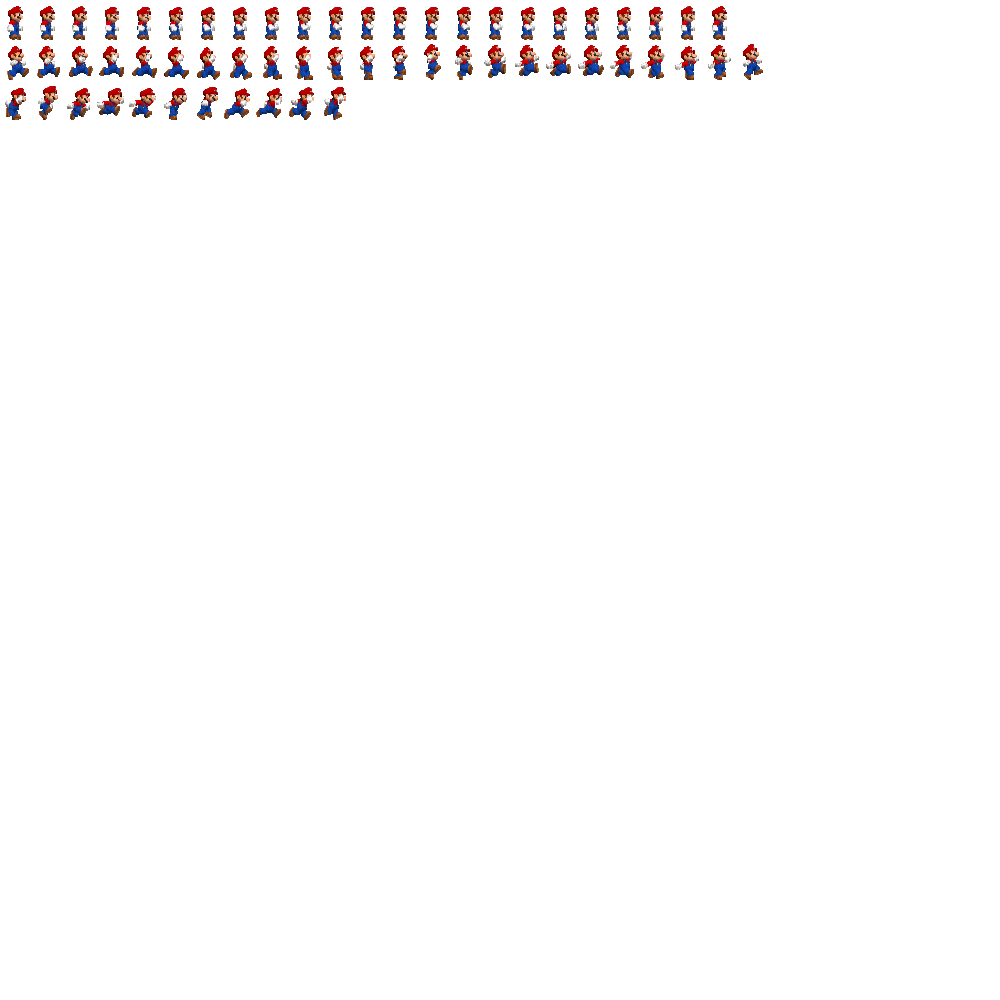
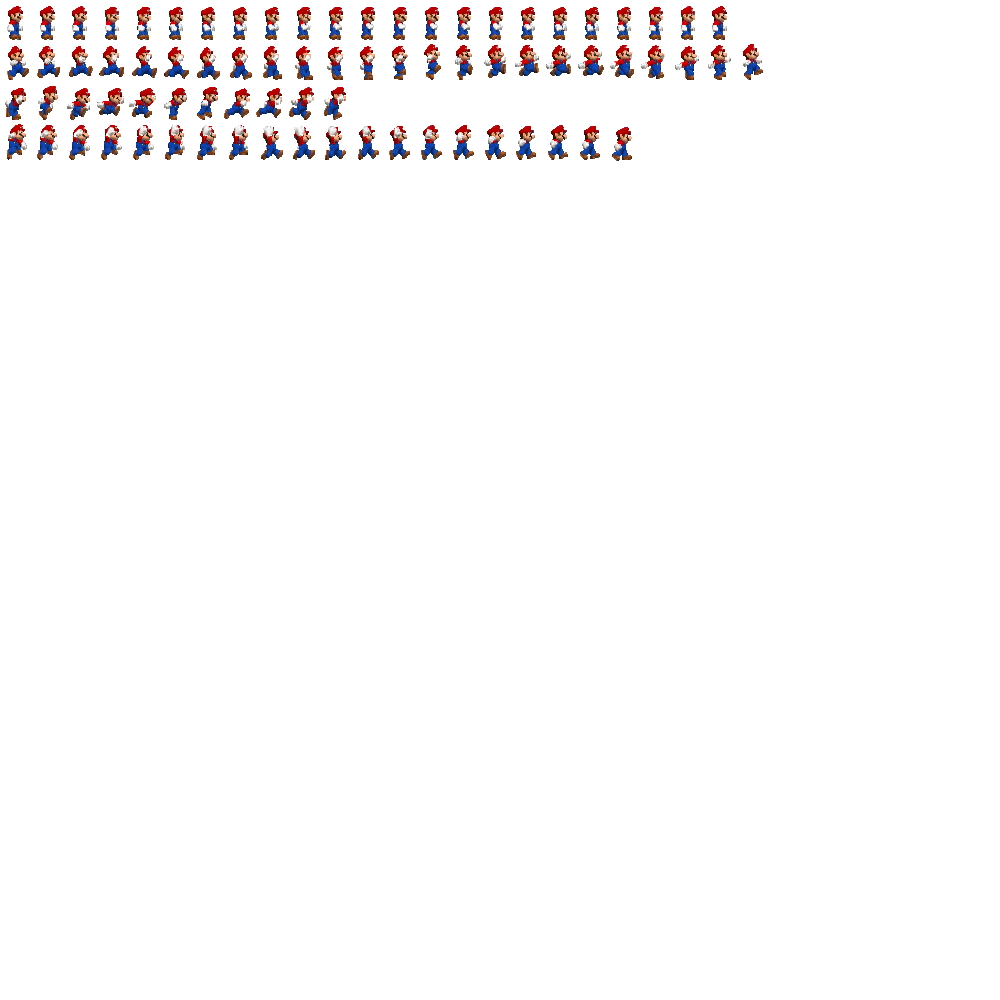
mario sprite 정리

Changed region(s): [[0.0, 0.124, 0.651, 0.155]]

diff --git a/newSuperMario/Main_state.py b/newSuperMario/Main_state.py
@@ -47,8 +47,14 @@ class hero:
         self.y = y
 
     def update(self):
-        if self.dir == -1 or self.dir == 1:
-            fs_deel = 4
+
+        if self.status != 0:
+            fs_deel = 7
+        elif self.dir == -1 or self.dir == 1:
+            if self.xspeed == 3.0:
+                fs_deel = 6
+            else:
+                fs_deel = 4
         elif self.dir == 0:
             fs_deel = 8
 
@@ -57,21 +63,13 @@ class hero:
         if self.framedir == 0:
             if self.fs == fs_deel:
                 self.frame = self.frame + 1
-            if self.status == 1:
-                if self.y - self.py > 70:
-                    if self.y - self.py > 170:
-                        self.frame = 3
-                    elif self.y - self.py > 110:
-                        self.frame = 2
-                    else:
-                        self.frame = 1
-                else:
-                    self.frame = 0
-            elif self.status == -1:
-                if self.y - self.py < 50:
-                    self.frame = 4
+
 
             elif self.dir == -1 or self.dir == 1:  # 나머지 프레임
+                if self.frame > 10 and self.xspeed == 3.0:
+                    self.frame = 0
+                    self.framedir = 0
+
                 if self.frame > 23:
                     self.frame = 0
                     self.framedir = 0
@@ -95,13 +93,13 @@ class hero:
         if self.status != 0: # 점프 등의 특수 상태
            if self.dir == 0:  # 정지
                if self.herodir == 1:
-                   Mario_image.clip_draw(self.frame * 32, 1000 - 3 * 40, 32, 40, self.x, self.y, self.size[0],self.size[1] )
+                   Mario_image.clip_draw(self.frame * 32, 1000 - 4 * 40, 32, 40, self.x, self.y, self.size[0],self.size[1] )
                else:
-                   Mario_image.clip_composite_draw(self.frame * 32, 1000 - 3 * 40, 32, 40, 0, 'h', self.x, self.y, self.size[0],self.size[1])
+                   Mario_image.clip_composite_draw(self.frame * 32, 1000 - 4 * 40, 32, 40, 0, 'h', self.x, self.y, self.size[0],self.size[1])
            if self.dir == 1:
-               Mario_image.clip_draw(self.frame * 32, 1000 - 3 * 40, 32, 40, self.x, self.y, self.size[0],self.size[1])
+               Mario_image.clip_draw(self.frame * 32, 1000 - 4 * 40, 32, 40, self.x, self.y, self.size[0],self.size[1])
            elif self.dir == -1:
-               Mario_image.clip_composite_draw(self.frame * 32, 1000 - 3 * 40, 32, 40, 0, 'h', self.x, self.y, self.size[0],self.size[1])
+               Mario_image.clip_composite_draw(self.frame * 32, 1000 - 4 * 40, 32, 40, 0, 'h', self.x, self.y, self.size[0],self.size[1])
         else: # 기본 이동 스프라이트
            if self.dir == 0:  # 정지
                if self.herodir == 1:
@@ -109,9 +107,15 @@ class hero:
                else:
                    Mario_image.clip_composite_draw(self.frame * 32, 1000 - 1 * 40, 32, 40, 0, 'h', self.x, self.y, self.size[0],self.size[1])
            elif self.dir == 1:  # 오른쪽 걸음
-               Mario_image.clip_draw(self.frame * 32, 1000 - 2 * 40, 32, 40, self.x, self.y, self.size[0],self.size[1])
+               if self.xspeed == 3.0:
+                   Mario_image.clip_draw(self.frame * 32, 1000 - 3 * 40, 32, 40, self.x, self.y, self.size[0],self.size[1])
+               else:
+                   Mario_image.clip_draw(self.frame * 32, 1000 - 2 * 40, 32, 40, self.x, self.y, self.size[0],self.size[1])
            elif self.dir == -1:  # 왼쪽 걸음
-               Mario_image.clip_composite_draw(self.frame * 32, 1000 - 2 * 40, 32, 40, 0, 'h', self.x, self.y, self.size[0],self.size[1])
+               if self.xspeed == 3.0:
+                   Mario_image.clip_composite_draw(self.frame * 32, 1000 - 3 * 40, 32, 40, 0, 'h', self.x, self.y,self.size[0], self.size[1])
+               else:
+                   Mario_image.clip_composite_draw(self.frame * 32, 1000 - 2 * 40, 32, 40, 0, 'h', self.x, self.y, self.size[0],self.size[1])
 
     def move(self):
         if self.status == 1: # 상승
